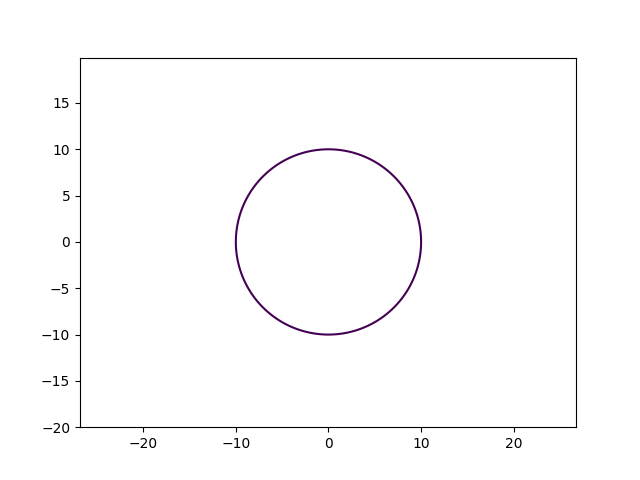
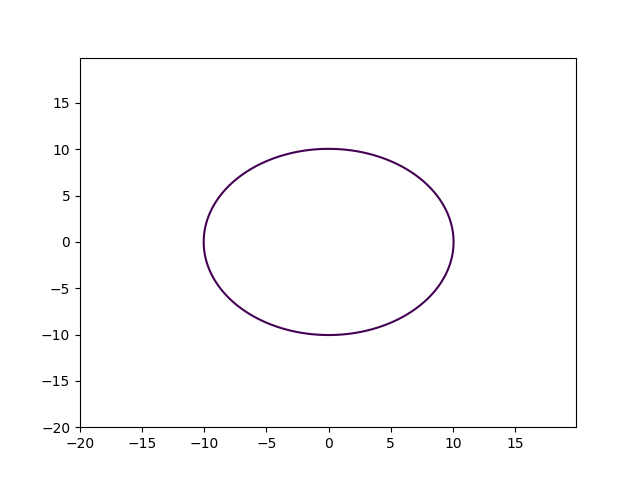
fff

diff --git a/laab_6_3_1.py b/laab_6_3_1.py
@@ -1,18 +1,19 @@
 import matplotlib.pyplot as plt
 import numpy as np 
 
-def ellips_plottrer(a=10, b=10):
+def ellips_plottrer(a=1, b=2):
+     
+    x = np.arange(-2*a, 2*a, 0.1)
+    y = np.arange(-2*b, 2*b, 0.1)
 
-    x = 
-    y =
 
     X, Y = np.meshgrid(x, y)
 
-    fxy = 1 - Y**2 / b**2 * a**2 
+    fxy = X**2 + Y**2 * a * b - 1
 
-    plt.contour( X, Y, fxy, levels = [0])
-    plt.axis('equal') 
+    plt.contour( X, Y, fxy, levels = [0]) 
 
+    plt.axis('equal')
     plt.savefig('lab3.png')
     
 if __name__ == '__main__':
